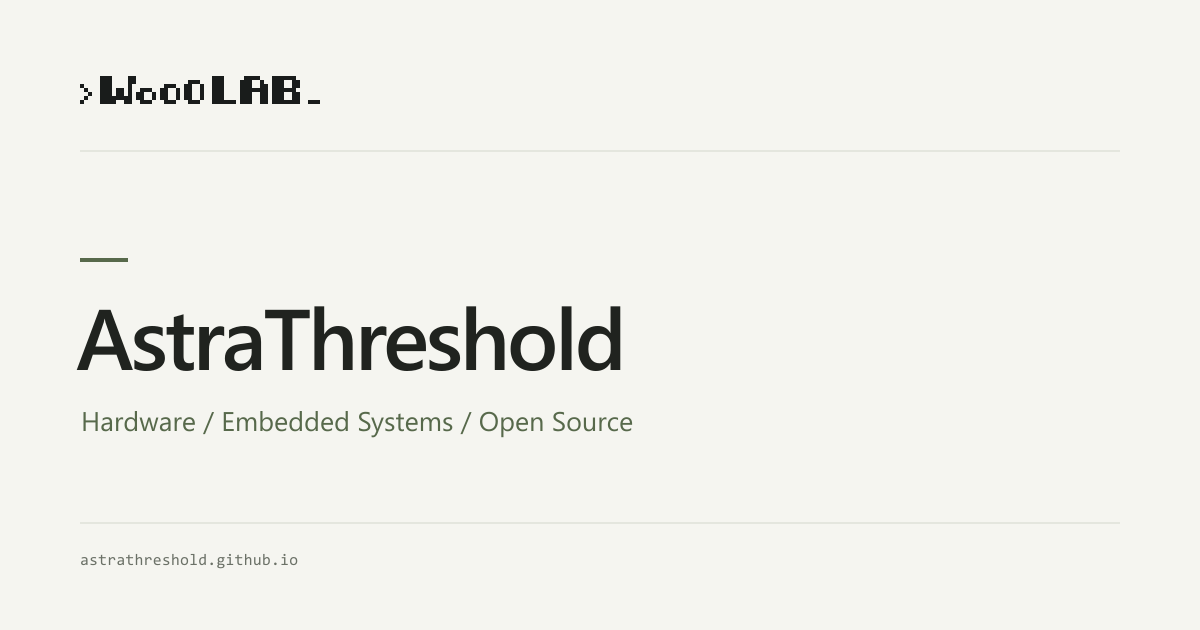
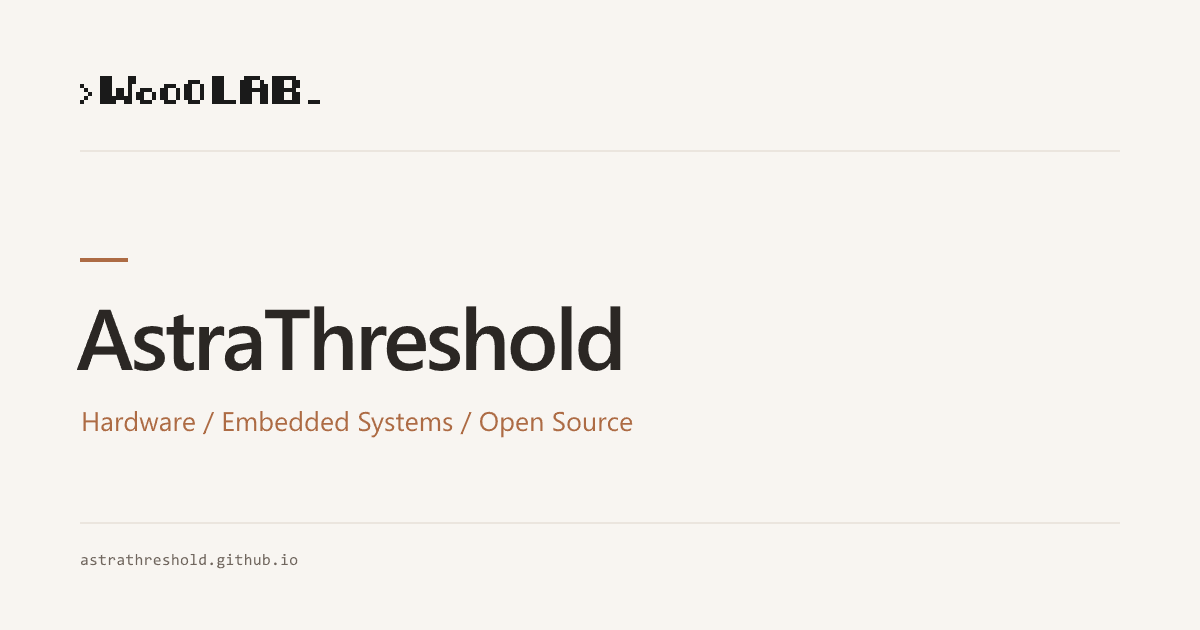
Polish magnetic hover, warm orange theme, and Xiaohongshu contacts

Changed region(s): [[0.0617, 0.6635, 0.5242, 0.6937], [0.0617, 0.3921, 0.0925, 0.4222]]

diff --git a/styles.css b/styles.css
@@ -8,27 +8,27 @@
 }
 :root {
   color-scheme: light dark;
-  --paper: #f7f6f2;
-  --panel: #eeefe8;
-  --ink: #242923;
-  --muted: #656c62;
-  --soft: #81877b;
-  --line: #d8dbd0;
-  --hairline: #e4e6de;
-  --accent: #516549;
-  --accent-wash: #e7ecdf;
+  --paper: #f8f5f1;
+  --panel: #f0eae3;
+  --ink: #2b2724;
+  --muted: #70665e;
+  --soft: #8c8076;
+  --line: #ded5cb;
+  --hairline: #e9e1d8;
+  --accent: #ad6b44;
+  --accent-wash: #f0e2d7;
   --logo-filter: none;
   --header-logo-filter: brightness(1.18);
   --brand-intro-duration: 1s;
-  --brand-glow: rgb(115 137 93 / .4);
-  --brand-halo: rgb(115 137 93 / .22);
-  --brand-aura-core: rgb(188 208 153 / .4);
-  --brand-aura-mid: rgb(188 208 153 / .23);
-  --brand-aura-edge: rgb(188 208 153 / .085);
-  --shadow: 0 12px 40px #20282024;
-  --cursor-dot: rgb(97 108 91 / .32);
-  --cursor-surface: rgb(97 108 91 / .11);
-  --cursor-stroke: rgb(81 101 73 / .26);
+  --brand-glow: rgb(194 124 78 / .4);
+  --brand-halo: rgb(194 124 78 / .22);
+  --brand-aura-core: rgb(239 178 126 / .36);
+  --brand-aura-mid: rgb(239 178 126 / .21);
+  --brand-aura-edge: rgb(239 178 126 / .075);
+  --shadow: 0 12px 40px #34231924;
+  --cursor-dot: rgb(128 128 128 / .4);
+  --cursor-surface: rgb(128 128 128 / .12);
+  --cursor-media: rgb(128 128 128 / .06);
   --cjk: "WoooLAB PingFang SC";
   --serif: var(--cjk), "WoooLAB Serif", "WoooLAB Symbols", serif;
   --sans: var(--cjk), "WoooLAB Sans", "WoooLAB Symbols", sans-serif;
@@ -38,26 +38,26 @@
 }
 @media (prefers-color-scheme: dark) {
   :root {
-    --paper: #171b19;
-    --panel: #202720;
-    --ink: #e8e9df;
-    --muted: #b0b6a9;
-    --soft: #949e8d;
-    --line: #343e33;
-    --hairline: #2b332c;
-    --accent: #b1c49e;
-    --accent-wash: #283324;
+    --paper: #292522;
+    --panel: #342d28;
+    --ink: #f0e8e1;
+    --muted: #bdb0a5;
+    --soft: #a39588;
+    --line: #4b3d33;
+    --hairline: #3e342c;
+    --accent: #e8b48e;
+    --accent-wash: #3a2a21;
     --logo-filter: invert(1) brightness(.94);
     --header-logo-filter: invert(1) brightness(1.11);
-    --brand-glow: rgb(232 233 223 / .35);
-    --brand-halo: rgb(177 196 158 / .18);
-    --brand-aura-core: rgb(226 239 204 / .3);
-    --brand-aura-mid: rgb(177 196 158 / .18);
-    --brand-aura-edge: rgb(143 169 120 / .065);
+    --brand-glow: rgb(244 221 203 / .35);
+    --brand-halo: rgb(232 180 142 / .18);
+    --brand-aura-core: rgb(255 218 183 / .3);
+    --brand-aura-mid: rgb(225 176 141 / .18);
+    --brand-aura-edge: rgb(190 136 99 / .065);
     --shadow: 0 12px 40px #0008;
-    --cursor-dot: rgb(225 235 211 / .37);
-    --cursor-surface: rgb(225 235 211 / .14);
-    --cursor-stroke: rgb(225 235 211 / .32);
+    --cursor-dot: rgb(180 180 180 / .4);
+    --cursor-surface: rgb(180 180 180 / .16);
+    --cursor-media: rgb(180 180 180 / .06);
   }
 }
 * { box-sizing: border-box; }
@@ -66,16 +66,16 @@ html { scroll-behavior: smooth; scroll-padding-top: 28px; scrollbar-gutter: stab
 body { margin: 0; isolation: isolate; color: var(--ink); background: var(--paper); font: 15px/1.8 var(--serif); -webkit-font-smoothing: antialiased; }
 a { color: inherit; text-decoration: none; text-underline-offset: 4px; }
 a, button { transition: color .15s ease, text-decoration-color .15s ease; }
-a:hover { color: var(--accent); }
+:where(html:not(.has-adaptive-cursor)) a:hover, a[data-cursor-within] { color: var(--accent); }
 a:focus-visible, button:focus-visible, summary:focus-visible { outline: 1px solid var(--accent); outline-offset: 5px; }
 button, input { font: inherit; }
 button { cursor: pointer; }
 html.has-adaptive-cursor, html.has-adaptive-cursor * { cursor: none !important; }
 .adaptive-cursor { position: fixed; z-index: 1000; left: 0; top: 0; width: 20px; height: 20px; border-radius: 50%; transform: translate3d(-100px, -100px, 0); pointer-events: none; visibility: visible; opacity: 0; transition: opacity .12s ease; }
 .adaptive-cursor.is-visible { opacity: 1; }
-.adaptive-cursor::before { content: ""; position: absolute; inset: 0; border: 1px solid var(--cursor-stroke); border-radius: inherit; background: var(--cursor-dot); box-shadow: 0 2px 12px #141d180d; transition: background .16s ease, transform .1s ease, box-shadow .16s ease; }
-.adaptive-cursor[data-mode="target"]::before { background: var(--cursor-surface); box-shadow: 0 2px 16px #141d180b; }
-.adaptive-cursor[data-mode="media"]::before { background: transparent; box-shadow: 0 0 0 1px var(--paper), 0 2px 16px #141d1814; }
+.adaptive-cursor::before { content: ""; position: absolute; inset: 0; border: 0; border-radius: inherit; background: var(--cursor-dot); box-shadow: none; transform-origin: 50% 50%; transition: background .16s ease, transform .1s ease; }
+.adaptive-cursor[data-mode="target"]::before { background: var(--cursor-surface); }
+.adaptive-cursor[data-mode="media"]::before { background: var(--cursor-media); }
 .adaptive-cursor.is-pressed::before { transform: scale(.95); }
 @media (forced-colors: active), print {
   .adaptive-cursor { display: none !important; }
@@ -110,7 +110,7 @@ html[data-fonts-loading] .site-header .brand img { animation-play-state: paused;
   to { opacity: 1; transform: translate(-50%, -38%) scale(1); }
 }
 .site-header nav { display: flex; gap: 27px; margin-left: auto; font-size: 13px; letter-spacing: .025em; }
-.site-header nav a:hover { text-decoration: underline; }
+:where(html:not(.has-adaptive-cursor)) .site-header nav a:hover, .site-header nav a[data-cursor-within] { text-decoration: underline; }
 .language-switch { display: flex; align-items: center; gap: 9px; margin-left: 12px; font-size: 11px; color: var(--soft); }
 .language-switch button { padding: 3px 0; border: none; background: transparent; color: var(--muted); }
 .language-switch button[aria-pressed=true] { color: var(--ink); text-decoration: underline; text-underline-offset: 4px; }
@@ -124,16 +124,17 @@ h1 { font: 600 32px/1.12 var(--mono); letter-spacing: -.035em; }
 .signature { margin-top: 14px; font-size: 14px; letter-spacing: .25em; color: var(--accent); }
 .social-links { display: flex; align-items: center; gap: 12px; }
 .social-link { display: inline-flex; align-items: center; justify-content: center; flex: 0 0 auto; width: var(--social-hit-size, 32px); height: var(--social-hit-size, 32px); color: var(--ink); border-radius: 3px; }
-.social-link:hover { color: var(--accent); }
+:where(html:not(.has-adaptive-cursor)) .social-link:hover, .social-link[data-cursor-within] { color: var(--accent); }
 .social-icon { display: block; width: var(--social-icon-size, 22px); height: var(--social-icon-size, 22px); background-color: currentColor; -webkit-mask: var(--social-icon-source) center / contain no-repeat; mask: var(--social-icon-source) center / contain no-repeat; }
 .social-icon--github { --social-icon-source: url("assets/icons/github.svg"); }
 .social-icon--bilibili { --social-icon-source: url("assets/icons/bilibili.svg"); }
+.social-icon--xiaohongshu { --social-icon-source: url("assets/icons/xiaohongshu.svg"); width: 32px; height: 22px; }
 .social-icon--email { --social-icon-source: url("assets/icons/email.svg"); }
 .profile-social { margin-top: auto; padding-top: 22px; }
 .entry-links a { display: inline-flex; align-items: baseline; gap: 5px; text-decoration: underline; text-decoration-thickness: 1px; text-decoration-color: var(--line); }
-.entry-links a:hover { text-decoration-color: var(--accent); }
+:where(html:not(.has-adaptive-cursor)) .entry-links a:hover, .entry-links a[data-cursor-within] { text-decoration-color: var(--accent); }
 .link-arrow { font-family: var(--sans); font-size: .9em; color: var(--soft); }
-a:hover .link-arrow { color: var(--accent); }
+:where(html:not(.has-adaptive-cursor)) a:hover .link-arrow, a[data-cursor-within] .link-arrow { color: var(--accent); }
 .profile-details { min-width: 0; }
 .profile-affiliations { display: grid; gap: 10px; margin-bottom: 16px; }
 .affiliation-row { display: flex; align-items: center; gap: 10px; }
@@ -175,11 +176,11 @@ h2 { font-size: 22px; font-weight: 600; line-height: 1.4; letter-spacing: -.02em
 .project-stars { display: inline-flex; align-items: baseline; gap: 6px; color: var(--ink); font-family: inherit; white-space: nowrap; }
 .project-stars strong { font-size: 18px; font-weight: 600; letter-spacing: -.04em; }
 .project-stars > span { font-size: 11px; color: var(--muted); }
-.project-stars:hover strong { text-decoration: underline; text-underline-offset: 4px; }
+:where(html:not(.has-adaptive-cursor)) .project-stars:hover strong, .project-stars[data-cursor-within] strong { text-decoration: underline; text-underline-offset: 4px; }
 h3 { font-weight: 400; font-size: 22px; letter-spacing: -.02em; line-height: 1.4; }
 .project-title { position: relative; width: fit-content; max-width: 100%; }
 .preview-trigger { text-decoration: underline; text-decoration-color: transparent; transition: text-decoration-color .15s; }
-.preview-trigger:hover { text-decoration-color: var(--accent); }
+:where(html:not(.has-adaptive-cursor)) .preview-trigger:hover, .preview-trigger[data-cursor-within] { text-decoration-color: var(--accent); }
 .entry-date { flex-shrink: 0; font-size: 10px; color: var(--muted); font-variant-numeric: tabular-nums; }
 .entry-description { margin-top: 10px; font-size: 13px; line-height: 1.9; color: var(--muted); max-width: 660px; }
 .entry-links { display: flex; align-items: center; flex-wrap: wrap; gap: 18px; margin-top: 10px; font-size: 11px; }
@@ -188,7 +189,8 @@ h3 { font-weight: 400; font-size: 22px; letter-spacing: -.02em; line-height: 1.4
 .project-preview img { width: 100%; height: 150px; object-fit: cover; }
 .project-preview > span { display: block; padding: 5px 3px 1px; color: var(--muted); font: 10px/1.4 var(--mixed-mono); letter-spacing: .02em; }
 @media (hover: hover) and (pointer: fine) {
-  .preview-trigger:hover + .project-preview { display: block; }
+  :where(html:not(.has-adaptive-cursor)) .preview-trigger:hover + .project-preview,
+  .preview-trigger[data-cursor-within] + .project-preview { display: block; }
 }
 .preview-trigger:focus-visible + .project-preview { display: block; }
 .project-title.preview-dismissed .project-preview { display: none; }
@@ -243,10 +245,10 @@ details[open] > summary:before { content: "−"; }
 .photo-viewer-open { overflow: hidden; }
 .photo-viewer { width: min(1040px, calc(100% - 40px)); max-width: none; max-height: calc(100dvh - 40px); padding: 12px 16px 14px; border: 1px solid var(--line); border-radius: 5px; color: var(--ink); background: var(--paper); }
 .photo-viewer:not([open]) { display: none; }
-.photo-viewer::backdrop { background: #0b0e0ce6; }
+.photo-viewer::backdrop { background: #100d0be6; }
 .photo-viewer-bar { display: flex; justify-content: flex-end; margin-bottom: 10px; }
 .photo-viewer button { border: 0; background: transparent; color: var(--muted); font: 12px/1.6 var(--mixed-mono); padding: 3px 6px; min-height: 32px; }
-.photo-viewer button:hover { color: var(--ink); }
+:where(html:not(.has-adaptive-cursor)) .photo-viewer button:hover, .photo-viewer button[data-cursor-within] { color: var(--ink); }
 .photo-viewer-image { width: auto; height: auto; max-width: 100%; max-height: calc(100dvh - 170px); object-fit: contain; margin-inline: auto; }
 .photo-viewer-footer { display: flex; align-items: center; flex-wrap: wrap; gap: 10px 22px; margin-top: 13px; }
 .photo-viewer-controls { display: flex; align-items: center; gap: 12px; margin-inline: auto; }
@@ -362,6 +364,9 @@ html[lang=en] #experience .job-role { font-size: 12px; }
   html[lang=en] .job-role { font-size: 13px; }
   html[lang=en] :is(.experience-entry, .project-entry) h3 { font-size: 17px; }
   html[lang=en] :is(#experience, #work) .entry-description { font-size: 12px; }
+}
+@media (max-width: 355px) {
+  .profile-social { grid-column: 1 / -1; justify-self: end; }
 }
 @media (prefers-reduced-motion: reduce) {
   html { scroll-behavior: auto; }

diff --git a/index.html b/index.html
@@ -4,8 +4,8 @@
   <meta charset="utf-8">
   <meta name="viewport" content="width=device-width, initial-scale=1">
   <meta name="color-scheme" content="light dark">
-  <meta name="theme-color" content="#f7f6f2" media="(prefers-color-scheme: light)">
-  <meta name="theme-color" content="#171b19" media="(prefers-color-scheme: dark)">
+  <meta name="theme-color" content="#f8f5f1" media="(prefers-color-scheme: light)">
+  <meta name="theme-color" content="#292522" media="(prefers-color-scheme: dark)">
   <title>大雅之堂。</title>
   <meta name="description" content="AstraThreshold 的个人主页。港科广 ROAS 博士生、电子硬件工程师，关注嵌入式系统、硬件设计与开源开发。">
   <link rel="canonical" href="https://astrathreshold.github.io/">
@@ -58,6 +58,7 @@
         <div class="profile-social social-links">
           <a class="social-link" href="https://github.com/AstraThreshold" target="_blank" rel="noopener noreferrer" aria-label="GitHub" title="GitHub"><span class="social-icon social-icon--github" aria-hidden="true"></span></a>
           <a class="social-link" href="https://space.bilibili.com/43483079" target="_blank" rel="noopener noreferrer" aria-label="Bilibili" title="Bilibili"><span class="social-icon social-icon--bilibili" aria-hidden="true"></span></a>
+          <a class="social-link" href="https://www.xiaohongshu.com/user/profile/600809120000000001004860" target="_blank" rel="noopener noreferrer" aria-label="Xiaohongshu" title="Xiaohongshu"><span class="social-icon social-icon--xiaohongshu" aria-hidden="true"></span></a>
           <a class="social-link" href="mailto:fir@live.it" aria-label="Email: fir@live.it" title="Email: fir@live.it"><span class="social-icon social-icon--email" aria-hidden="true"></span></a>
         </div>
       </div>
@@ -155,6 +156,7 @@
       <div class="contact-links social-links">
         <a class="social-link" href="https://github.com/AstraThreshold" target="_blank" rel="noopener noreferrer" aria-label="GitHub" title="GitHub"><span class="social-icon social-icon--github" aria-hidden="true"></span></a>
         <a class="social-link" href="https://space.bilibili.com/43483079" target="_blank" rel="noopener noreferrer" aria-label="Bilibili" title="Bilibili"><span class="social-icon social-icon--bilibili" aria-hidden="true"></span></a>
+        <a class="social-link" href="https://www.xiaohongshu.com/user/profile/600809120000000001004860" target="_blank" rel="noopener noreferrer" aria-label="Xiaohongshu" title="Xiaohongshu"><span class="social-icon social-icon--xiaohongshu" aria-hidden="true"></span></a>
         <a class="social-link" href="mailto:fir@live.it" aria-label="Email: fir@live.it" title="Email: fir@live.it"><span class="social-icon social-icon--email" aria-hidden="true"></span></a>
       </div>
     </section>
@@ -167,6 +169,6 @@
     </div>
   </dialog>
   <footer class="site-footer shell"><a class="brand" href="#" aria-label="WoooLAB / Back to top"><img src="assets/brand/wooolab-dark.svg" alt="WoooLAB" width="105" height="13"></a><p>© 2026 Heng Zhang / AstraThreshold</p><a href="#"><span data-en="Back to top">回到顶部</span> ↑</a></footer>
-  <script type="application/ld+json">{"@context":"https://schema.org","@type":"Person","name":"Heng Zhang","alternateName":["AstraThreshold","WoooLAB","无理造物"],"url":"https://astrathreshold.github.io/","email":"mailto:fir@live.it","sameAs":["https://github.com/AstraThreshold","https://space.bilibili.com/43483079"],"image":"https://astrathreshold.github.io/assets/profile/avatar.webp"}</script>
+  <script type="application/ld+json">{"@context":"https://schema.org","@type":"Person","name":"Heng Zhang","alternateName":["AstraThreshold","WoooLAB","无理造物"],"url":"https://astrathreshold.github.io/","email":"mailto:fir@live.it","sameAs":["https://github.com/AstraThreshold","https://space.bilibili.com/43483079","https://www.xiaohongshu.com/user/profile/600809120000000001004860"],"image":"https://astrathreshold.github.io/assets/profile/avatar.webp"}</script>
 </body>
 </html>

diff --git a/adaptive-cursor.js b/adaptive-cursor.js
@@ -9,15 +9,26 @@ export function initAdaptiveCursor() {
   const reducedMotion = matchMedia('(prefers-reduced-motion: reduce)');
   const forcedColors = matchMedia('(forced-colors: active)');
   let cursor, scope, candidates = [], dirty = true, active = false, target = null;
+  let hoverChain = [];
   let request = 0, previousTime = 0, initialized = false, pressed = false, down = null, modified = false;
   const pointer = { x: 0, y: 0 };
   const current = { x: 0, y: 0, width: 20, height: 20, radius: 10 };
 
   function markTarget(next) {
-    if (next === target) return;
+    const chain = [];
+    for (let element = next; element; element = element.parentElement) {
+      chain.push(element);
+      if (element === scope) break;
+    }
+    if (next === target && chain.length === hoverChain.length && chain.every((element, index) => element === hoverChain[index])) return;
+    const previous = target;
     target?.removeAttribute('data-cursor-magnet');
+    hoverChain.forEach(element => element.removeAttribute('data-cursor-within'));
     target = next;
+    hoverChain = chain;
     target?.setAttribute('data-cursor-magnet', '');
+    hoverChain.forEach(element => element.setAttribute('data-cursor-within', ''));
+    document.dispatchEvent(new CustomEvent('adaptive-cursor-change', { detail: { target, previous } }));
   }
 
   function hide() {
@@ -45,7 +56,8 @@ export function initAdaptiveCursor() {
   }
 
   function visibleRect(element) {
-    if (!element.isConnected || element.matches('[disabled], [aria-disabled="true"]') || element.closest('[inert]')) return null;
+    // A busy control keeps an existing attachment; disabled controls cannot attract a new one.
+    if (!element.isConnected || (element.matches('[disabled], [aria-disabled="true"]') && element !== target) || element.closest('[inert]')) return null;
     let nearest = null, best = Infinity;
     const wall = element.closest('.photo-wall');
     const clip = wall?.getBoundingClientRect();
@@ -147,6 +159,7 @@ export function initAdaptiveCursor() {
     if (!active) return;
     syncScope();
     const choice = pickTarget();
+    if (choice?.element.matches('[disabled], [aria-disabled="true"]')) { down = null; pressed = false; schedule(); return; }
     down = { x: event.clientX, y: event.clientY, control: choice?.element || null };
     pressed = true; schedule();
   }, { passive: true });
@@ -170,7 +183,7 @@ export function initAdaptiveCursor() {
       || Math.hypot(event.clientX - press.x, event.clientY - press.y) > 4 || getSelection()?.type === 'Range') return;
     pointer.x = event.clientX; pointer.y = event.clientY;
     const info = visibleRect(press.control);
-    if (!info || info.distance > 14 || !currentScope().contains(press.control)) return;
+    if (!info || info.distance > 20 || press.control.matches('[disabled], [aria-disabled="true"]') || !currentScope().contains(press.control)) return;
     event.preventDefault(); event.stopPropagation();
     press.control.click();
   }, true);

diff --git a/gallery.js b/gallery.js
@@ -20,6 +20,7 @@ export function initGallery(getLanguage) {
   let columnCount = 0;
   let active = null;
   const returning = new Set();
+  const magneticPhoto = () => wall?.querySelector('.photo-link[data-cursor-magnet]');
 
   const label = index => getLanguage() === 'en'
     ? `View photo ${index + 1} of ${links.length}` : `查看照片 ${index + 1} / ${links.length}`;
@@ -34,7 +35,7 @@ export function initGallery(getLanguage) {
   }
 
   function syncMotion() {
-    wall?.classList.toggle('is-paused', pointerInside || keyboardInside || returning.size > 0 || Boolean(viewer?.open) || document.hidden);
+    wall?.classList.toggle('is-paused', pointerInside || keyboardInside || Boolean(magneticPhoto()) || returning.size > 0 || Boolean(viewer?.open) || document.hidden);
   }
 
   function returnPhoto(immediate = false) {
@@ -203,7 +204,7 @@ export function initGallery(getLanguage) {
       if (event.pointerType === 'touch' || !hoverPointer.matches) return;
       pointerInside = true;
       syncMotion();
-      const link = event.target.closest('.photo-link');
+      const link = document.documentElement.classList.contains('has-adaptive-cursor') ? magneticPhoto() : event.target.closest('.photo-link');
       if (link && wall.contains(link)) liftPhoto(link);
       else returnPhoto();
     };
@@ -211,7 +212,15 @@ export function initGallery(getLanguage) {
     wall.addEventListener('pointermove', pointToPhoto);
     wall.addEventListener('pointerleave', () => {
       pointerInside = false;
-      returnPhoto();
+      if (!magneticPhoto()) returnPhoto();
+      syncMotion();
+    });
+    document.addEventListener('adaptive-cursor-change', () => {
+      if (!viewer?.open) {
+        const link = magneticPhoto() || (!document.documentElement.classList.contains('has-adaptive-cursor') && wall.querySelector('.photo-link:hover'));
+        if (link) liftPhoto(link);
+        else returnPhoto();
+      }
       syncMotion();
     });
     gallery.addEventListener('focusin', event => {

diff --git a/README.md b/README.md
@@ -2,6 +2,8 @@
 
 面向 GitHub Pages 的中英双语个人主页。使用原生 HTML、CSS、JavaScript，无运行时依赖，也无需安装静态站点框架。
 
+界面使用以索尼卡口橙环为灵感的柔和橙色，配合暖纸色浅色模式与暖灰深色模式；磁性光标使用无描边中性灰，照片与作品图片保留原色。
+
 线上地址：[astrathreshold.github.io](https://astrathreshold.github.io/)
 
 ## 本地预览
@@ -15,7 +17,7 @@ npm run preview
 
 打开终端输出的本地地址（默认 `http://127.0.0.1:4173`）。修改源文件后重新构建并刷新页面。
 
-构建时会为样式表和 JavaScript 模块链接加入内容哈希版本号；文件变化后，刷新页面会请求新的链接，避免继续复用旧缓存。
+构建时会为样式表、JavaScript 模块、品牌图标与网页清单链接加入内容哈希版本号；文件变化后，刷新页面会请求新的链接，避免继续复用旧缓存。
 
 首屏字体在 HTML 中预加载，文字等待本页所用字体就绪后显示，避免先显示系统字体再闪换；Logo 与照片可先显示，渐亮动画在文字就绪后从原始亮度开始。禁用 JavaScript 时仍使用原生字体加载显示机制。
 
@@ -30,7 +32,7 @@ npm run preview
 - 项目标题的 Cascadia 子集覆盖 ASCII，并保留花体字形；`scripts/prepare-cascadia.py` 可从本人的斜体源文件重新生成，生成后同步 `styles.css` 中带哈希的字体路径。原字体采用 SIL Open Font License，许可文本随网页打包。
 - `scripts/prepare-latin-fonts.py`：将本机提供的 Times New Roman、Consolas、Arial 各四个字重/字形，以及 Segoe UI Symbol 的所需符号转换为 WOFF2。浏览器按实际使用加载，`latin-coverage.json` 只在构建时检查缺字，不发布；网页不使用 `local()` 字体来源。
 - `logo-glow.js`：光晕从 Logo 中心的小点向外扩展，同时从零亮度逐渐达到正常亮度，在 1 秒内停于完整范围；按像素计算并在亮度混合后做最低强度的去色带处理。优先使用 WebGL，支持 Canvas 2D 回退，动画结束后停止绘制。光晕始终位于头像和文字下方。
-- `adaptive-cursor.js`：鼠标使用 iPad 风格的圆点光标，靠近链接、按钮和照片时缓动贴合轮廓并吸附；照片边框跟随浮起后的实际大小，查看大图时光标进入弹窗层。小范围吸附区支持直接点击，保留键盘、组合键和拖选操作；触屏及高对比度模式使用原生交互，减少动态效果时直接定位，静止后停止绘制。
+- `adaptive-cursor.js`：鼠标使用 iPad 风格的灰色无描边圆点光标，靠近链接、按钮和照片时缓动贴合轮廓并吸附；吸附期间统一维持下划线、作品预览和照片浮起等悬浮状态，小幅偏移不会反复开关。照片吸附区跟随浮起后的实际大小，查看大图时光标进入弹窗层。吸附区支持直接点击，保留键盘、组合键和拖选操作；触屏及高对比度模式使用原生交互，减少动态效果时直接定位，静止后停止绘制。
 - `assets/brand/`：由 WoooLAB 原始素材裁剪制作的网页标识与 favicon；分享卡片 SVG 的文字已转为轮廓，不调用设备字体。
 - `assets/projects/`：项目展示素材。
 - `assets/gallery/`：banner PSD 照片与本人提供的照片，共 23 张；`SOURCES.md` 记录来源。每张包含网页大图和缩略图。
@@ -38,7 +40,7 @@ npm run preview
 - `assets/data/bilibili.json`：最近一次成功读取的粉丝数与读取时间。
 - `assets/data/github.json`：所有公开仓库的 stars 合计、各仓库数据及读取时间。
 - `assets/affiliations/`：官方素材制作的黑白透明机构标志；CSS 随系统配色切换深浅。网站品牌和 favicon 保持 WoooLAB。
-- `assets/icons/`：GitHub、Bilibili 与邮箱的透明底 SVG 图标及许可证。头像下方与底部联系区均横向排列，深浅模式自动变色；链接保留可访问名称及悬停提示。
+- `assets/icons/`：GitHub、Bilibili、小红书与邮箱的透明底 SVG 图标及许可证。小红书采用官网的椭圆胶囊外形，搭配 Simple Icons 字标与透明镂空。头像下方与底部联系区均横向排列，深浅模式自动变色；链接保留可访问名称及悬停提示。
 - `github-stats.js`：浏览器与定时任务共用的 GitHub 分页统计逻辑。
 - `scripts/build.mjs`：将公开网页与允许的媒体文件复制至 `dist/`。
 
